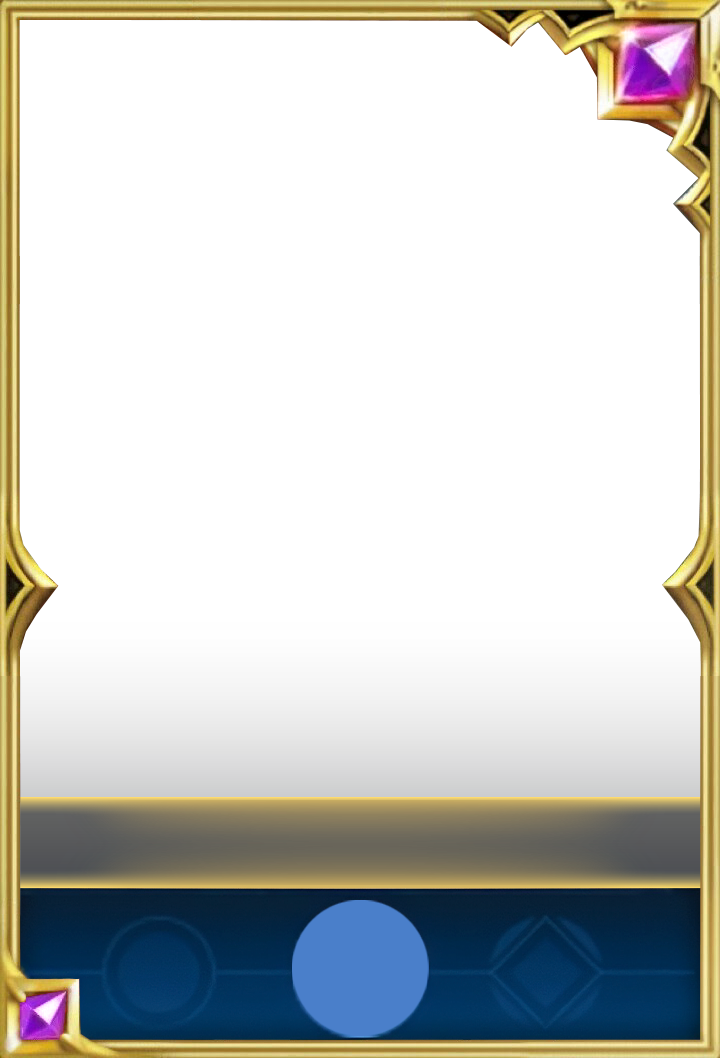
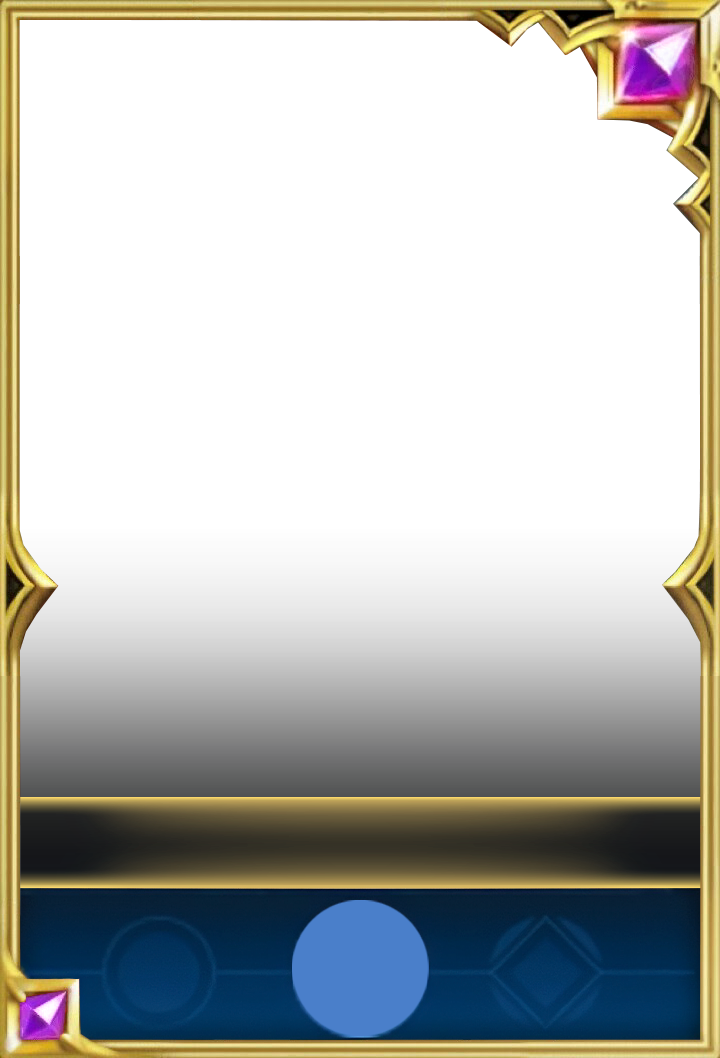
a

Changed region(s): [[0.0306, 0.5614, 0.9778, 0.8422]]

diff --git a/tad/effect/cover-lienquan-2/index.html b/tad/effect/cover-lienquan-2/index.html
@@ -36,11 +36,11 @@
 
 
 
-        document.fonts.load('10pt "AR DARLING"').then(function () {
+        document.fonts.load('10pt "UTM Niagara"').then(function () {
 
             var a = new Image();
             a.crossOrigin = "Anonymous";
-            a.src = "https://lh3.googleusercontent.com/-owyh1OnKnck/Ymu8XnZoKdI/AAAAAAAA7ms/cqonz2rI7_gLH5BVwVSvH3GY-I1GIdDpACNcBGAsYHQ/s0/Aoi-3.jpg";
+            a.src = "https://lh3.googleusercontent.com/-GJWM5vCJjRg/YYtij3MnRhI/AAAAAAAA0QU/83FuLmRWSjI5WHmFwYZmy_EeQqi1rKA0wCNcBGAsYHQ/s0/Tulen-8.jpg";
             a.onload = function () {
 
 
@@ -67,17 +67,21 @@
                         var ctx = c.getContext("2d");
 
                         ctx.drawImage(a, 0, 0, c.width, c.height);
+                        
                         ctx.save();
 
 
                         ctx.globalCompositeOperation = "overlay";
+               
                         ctx.drawImage(a1, 0, 0, c.width, c.height);
 
                         ctx.restore();
 
 
-                        ctx.drawImage(a1, 0, 0, c.width, c.height);
 
+
+                        ctx.drawImage(a1, 0, 0, c.width, c.height);
+                     
 
                         var c2 = document.createElement("canvas")
                         c2.width = c.width;
@@ -85,8 +89,8 @@
                         var ctx2 = c2.getContext("2d");
 
 
-                        ctx2.shadowColor = '#e1b439';
-                        ctx2.shadowBlur = 20;
+                        ctx2.shadowColor = '#2ed8f7';
+                        ctx2.shadowBlur = 10;
                         ctx2.save();
                         ctx2.textAlign = "center";
                         ctx2.fillStyle = "#fff"
@@ -111,21 +115,18 @@
                         ctx2.drawImage(a3, c.width/2 - aw/2, 275, aw, aw)
                         ////
                         ctx.save();
-                        ctx.shadowColor = '#000';
-                        ctx.shadowBlur = 50;
+                        ctx.shadowColor = '#222';
+                        ctx.shadowBlur = 20;
+                        
                         ctx.drawImage(c2, 0, 0, c.width, c.height)
-
-                        ctx.restore();
-
-                        ctx.save();
-                        ctx.globalCompositeOperation = "overlay";
-                        for (var i = 0; i < 3; i++) {
-
-                            ctx.drawImage(c2, 0, 0, c.width, c.height)
-                        }
+                    
+                       
                         ctx.restore();
 
                         ctx.drawImage(c2, 0, 0, c.width, c.height)
+                        ctx.drawImage(c2, 0, 0, c.width, c.height)
+
+                    
 
 
                     }
